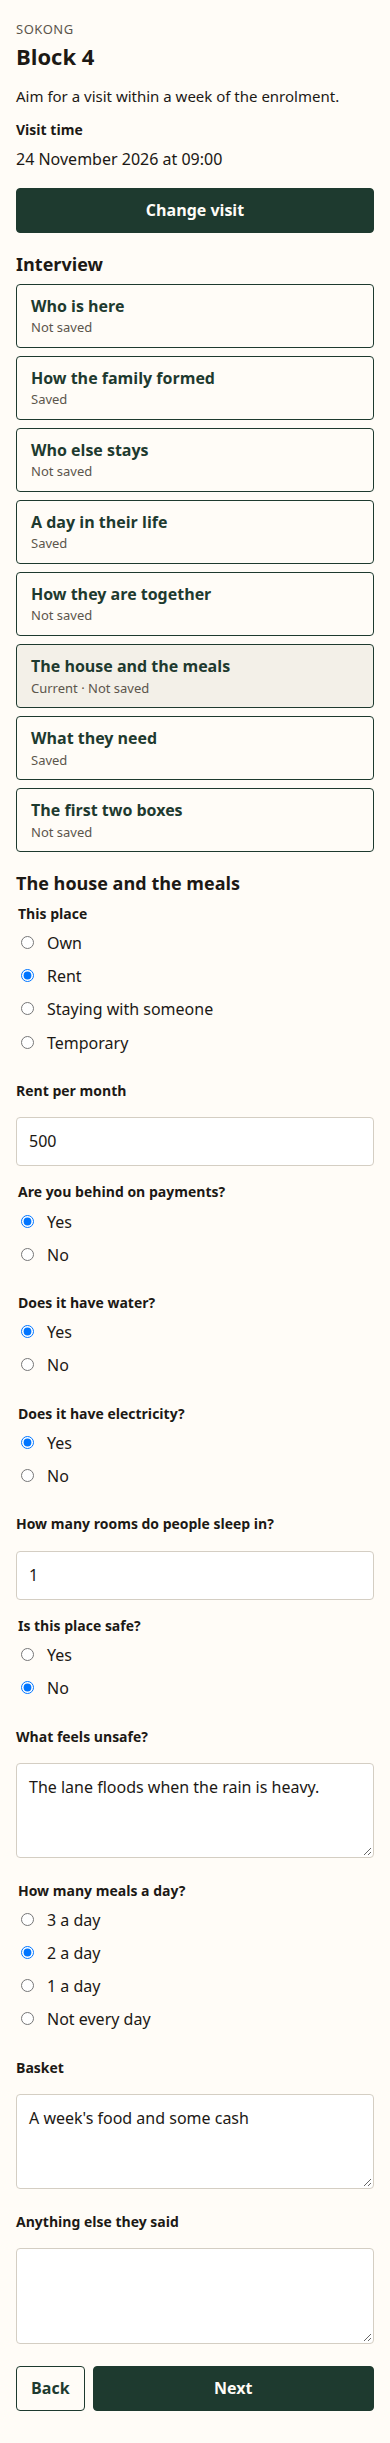
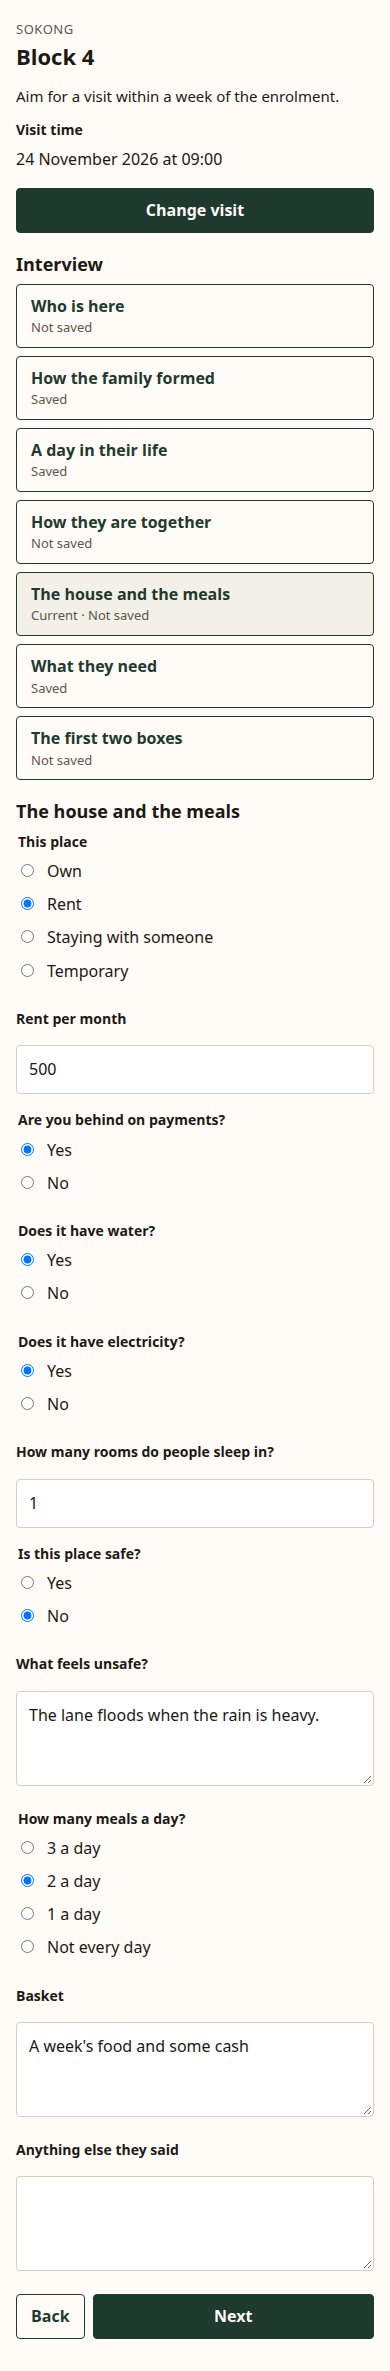
Combine the people stages into Who is here.
The interview is seven stages. Guests and care for elderly parents sit on the people screen, and each stage has a fresh picture.

diff --git a/context/requirements/features/verification-visit/design/preview.html b/context/requirements/features/verification-visit/design/preview.html
@@ -214,7 +214,6 @@
     const stages = [
       ["who", "Who is here"],
       ["formation", "How the family formed"],
-      ["else", "Who else stays"],
       ["day", "A day in their life"],
       ["together", "How they are together"],
       ["house", "The house and the meals"],
@@ -228,7 +227,6 @@
     const saved = {
       who: false,
       formation: true,
-      else: false,
       day: true,
       together: false,
       house: false,
@@ -339,6 +337,10 @@
           ${away}
         </div>
         <button class="secondary block" type="button">Add a person</button>
+        ${yesNo("Does anyone else stay who is not in that list?", "yes")}
+        ${area("Who, and why?", "A cousin sleeps here a few nights a month when he is between jobs.")}
+        ${yesNo("Do you have to take care of elderly parents?", "yes")}
+        ${area("Who, and what do you do for them?", "Aminah's mother lives nearby. Aminah cooks for her and helps her wash.")}
         ${anything("")}
         ${nav("first")}`;
     }
@@ -393,20 +395,6 @@
         <h2>How the family formed</h2>
         ${field("When did this family start?", "2008")}
         ${area("How did it start?", "Aminah and Rahman married after meeting at the market.")}
-        ${anything("")}
-        ${nav()}`,
-
-      "who-else": () => `
-        ${caseTop()}
-        ${visitHeader("week")}
-        ${stageList("else")}
-        <h2>Who else stays</h2>
-        <p>People who live here are recorded in Who is here.</p>
-        <p>Children are recorded in Who is here.</p>
-        ${yesNo("Does anyone else stay who is not in that list?", "yes")}
-        ${area("Who, and why?", "A cousin sleeps here a few nights a month when he is between jobs.")}
-        ${yesNo("Do you have to take care of elderly parents?", "yes")}
-        ${area("Who, and what do you do for them?", "Aminah's mother lives nearby. Aminah cooks for her and helps her wash.")}
         ${anything("")}
         ${nav()}`,
 

diff --git a/context/requirements/features/verification-visit/spec.md b/context/requirements/features/verification-visit/spec.md
@@ -14,9 +14,9 @@ The other user is the person who enrolled, including someone who enrolled many f
 
 Sokong can store an enrolment today, and `visit_at` is always empty. No one can set a visit or mark a family.
 
-The interview is eight stages. The stage list stays on screen. The worker can open any stage, go back, and go forward. Each stage saves when they leave it. Empty answers are allowed. A follow-up stays off the screen until the answer that opens it. The enrolment is shown above a field it already answered, and the worker writes what the family said. That answer is the verified account. The enrolment rows stay as submitted.
+The interview is seven stages. The stage list stays on screen. The worker can open any stage, go back, and go forward. Each stage saves when they leave it. Empty answers are allowed. A follow-up stays off the screen until the answer that opens it. The enrolment is shown above a field it already answered, and the worker writes what the family said. That answer is the verified account. The enrolment rows stay as submitted.
 
-The eight stages are Who is here, How the family formed, Who else stays, A day in their life, How they are together, The house and the meals, What they need, and The first two boxes. The basket is on the house stage. Consent is on the needs stage. The identity check is on the first stage, once for each person. The story is the other answers. All of that is stored before either mark. A visit later than a week after the enrolment is allowed. The screen says that a week is the aim. A disqualified family stays on record.
+The seven stages are Who is here, How the family formed, A day in their life, How they are together, The house and the meals, What they need, and The first two boxes. Who is here includes the people who stay. The basket is on the house stage. Consent is on the needs stage. The identity check is on the first stage, once for each person. The story is the other answers. All of that is stored before either mark. A visit later than a week after the enrolment is allowed. The screen says that a week is the aim. A disqualified family stays on record.
 
 On 2026-11-17 Usamah confirmed the closing judgment: this visit records Good family unit and Basic necessities, each with its gap. The other two boxes wait. The worker chooses the mark. Qualified still requires the family's consent at the visit. A refused consent can be marked disqualified once the interview is saved. Missing papers do not block either mark. A family can be on record with no papers.
 
@@ -75,7 +75,7 @@ backend/app/models/enrolment.rb        visit_at, outcome, marked_at, marker_name
 backend/app/controllers/               visit, verification stage, and qualification
 backend/app/mailers/enrolment_mailer.rb
 backend/test/integration/verifications_test.rb
-web/components/WorkerCase.vue          the visit time and the eight-stage interview
+web/components/WorkerCase.vue          the visit time and the seven-stage interview
 web/pages/enrolments/index.vue         visit and outcome on each row
 web/pages/enrolments/[id].vue          submitter progress
 web/i18n/locales/en.json               the copy in Success Criteria
@@ -108,7 +108,7 @@ end
 
 ## Testing Strategy
 
-`bin/ci` is the gate. Rails integration tests prove the HTTP contract, the visit time, saving one stage, the mark, who may see the interview, and the mail. Vitest proves the worker case: the eight stage names stay visible, the open stage is marked current, a saved stage shows "Saved", jumping and Back and Next keep what was typed, a bad phone stays on that stage, a No or an unselected choice hides its follow-up, the interview is hidden until a visit time is set, and the case is read-only after a mark. Vitest also proves the quiet sentence only when nobody has looked and no visit is set, and a list of two enrolments showing each visit and each outcome. A browser pass at 390 CSS pixels wide checks the worker case, submitter progress, and the enrolments list. Those pages scroll vertically and do not scroll horizontally.
+`bin/ci` is the gate. Rails integration tests prove the HTTP contract, the visit time, saving one stage, the mark, who may see the interview, and the mail. Vitest proves the worker case: the seven stage names stay visible, the open stage is marked current, a saved stage shows "Saved", jumping and Back and Next keep what was typed, a bad phone stays on that stage, a No or an unselected choice hides its follow-up, the interview is hidden until a visit time is set, and the case is read-only after a mark. Vitest also proves the quiet sentence only when nobody has looked and no visit is set, and a list of two enrolments showing each visit and each outcome. A browser pass at 390 CSS pixels wide checks the worker case, submitter progress, and the enrolments list. Those pages scroll vertically and do not scroll horizontally.
 
 Edge cases the integration tests cover:
 
@@ -189,17 +189,15 @@ Never:
 
 ### The interview
 
-6. After a visit time is stored, the worker case shows a stage list that stays visible while a stage is open. The heading is "Interview". The stages, in order, are "Who is here", "How the family formed", "Who else stays", "A day in their life", "How they are together", "The house and the meals", "What they need", and "The first two boxes". The open stage shows "Current". A stage that has been saved shows "Saved". A stage that has not shows "Not saved". The worker opens any stage from that list. "Back" and "Next" move one stage. Stage 1 has no Back. Stage 8 has no Next.
+6. After a visit time is stored, the worker case shows a stage list that stays visible while a stage is open. The heading is "Interview". The stages, in order, are "Who is here", "How the family formed", "A day in their life", "How they are together", "The house and the meals", "What they need", and "The first two boxes". The open stage shows "Current". A stage that has been saved shows "Saved". A stage that has not shows "Not saved". The worker opens any stage from that list. "Back" and "Next" move one stage. Stage 1 has no Back. Stage 7 has no Next.
 7. Leaving a stage, by Back, Next, or the stage list, saves it when the answers are valid. Blank answers are valid. A follow-up that the answer does not open is not on the screen, and it is stored empty. An invalid answer stays on that stage, shows the error, and does not open the other stage. Typed answers are still there.
-8. `PUT /enrolments/:id/verification/:stage` saves that stage. `:stage` is `who_is_here`, `formation`, `who_else_stays`, `daily_life`, `dynamics`, `house`, `needs`, or `boxes`. Any other stage is 404. The call is rejected with "Set the visit before recording it" until `visit_at` is stored. A 200 body is the saved stage plus `worker_name` and `recorded_at`. `worker_name` is the worker account's name at save time. `recorded_at` is the server time, ISO 8601 UTC. A later PUT of the same stage replaces it and leaves the other stages unchanged.
+8. `PUT /enrolments/:id/verification/:stage` saves that stage. `:stage` is `who_is_here`, `formation`, `daily_life`, `dynamics`, `house`, `needs`, or `boxes`. Any other stage is 404. The call is rejected with "Set the visit before recording it" until `visit_at` is stored. A 200 body is the saved stage plus `worker_name` and `recorded_at`. `worker_name` is the worker account's name at save time. `recorded_at` is the server time, ISO 8601 UTC. A later PUT of the same stage replaces it and leaves the other stages unchanged.
 9. Where the enrolment already holds a fact, the stage shows that fact above the field, labeled "Enrolment". The worker's answer is stored on the interview. The enrolment member, place, phone, and consent sentence stay as submitted. On the worker case, a stored interview answer is the account that outranks the enrolment, and the enrolment fact remains visible under it.
 10. Each stage ends with "Anything else they said", optional text up to 2000 characters. The questions below are the field labels.
 
-Who is here. The people already on the enrolment are listed, head first, then the other members. The worker opens one person at a time. For each person: "Full name", "Birth date", "Gender", "Phone", "Identification", "Identity", and "Absent". The head shows "Head" and has no relationship choice. Every other person has "Relationship", one of "Spouse", "Child", "Parent", and "Other". "From where?" is on each person whose relationship is not Child, including the head. "Absent" opens "Since when" and "Why". "Add a person" adds someone the visit found, and that person needs a name before the stage can leave them on the list. An added person has "Remove". An enrolment person stays on the list and can be marked absent. "Identity" is one of "Verified", "Not verified", and "No papers", asked for each person. The screen says "The children are the people recorded here." A child is a person whose relationship is Child.
+Who is here. The people already on the enrolment are listed, head first, then the other members. The worker opens one person at a time. For each person: "Full name", "Birth date", "Gender", "Phone", "Identification", "Identity", and "Absent". The head shows "Head" and has no relationship choice. Every other person has "Relationship", one of "Spouse", "Child", "Parent", and "Other". "From where?" is on each person whose relationship is not Child, including the head. "Absent" opens "Since when" and "Why". "Add a person" adds someone the visit found, and that person needs a name before the stage can leave them on the list. An added person has "Remove". An enrolment person stays on the list and can be marked absent. "Identity" is one of "Verified", "Not verified", and "No papers", asked for each person. The screen says "The children are the people recorded here." A child is a person whose relationship is Child. After the people, the stage asks "Does anyone else stay who is not in that list?" and "Do you have to take care of elderly parents?" Yes on the first opens "Who, and why?" Yes on the second opens "Who, and what do you do for them?"
 
 How the family formed. "When did this family start?" and "How did it start?"
-
-Who else stays. "Does anyone else stay who is not in that list?" and "Do you have to take care of elderly parents?" Yes on the first opens "Who, and why?" Yes on the second opens "Who, and what do you do for them?" The screen says "People who live here are recorded in Who is here." and "Children are recorded in Who is here."
 
 A day in their life. The same people as Who is here, one person at a time, head first. "Are you working?" and "Are you in school?" are always shown. Working and school are independent. Both may be true. Both may be false. Yes on working opens "What job?", "Ringgit per month", "Any previous jobs?", and "If you wish for a new job or income, what would that be?" "Any skills to highlight?" stays visible either way. Yes on school opens "How is school going?", "Where is school?", and "How do you get there?" The enrolment working answer, education answer, job, and rough monthly amount sit above the matching fields.
 
@@ -235,7 +233,7 @@ The first two boxes. "Good family unit" and "Basic necessities", each checked or
 
 ### Who sees it
 
-20. Worker detail adds `visit_at`, `verification` (null until the first stage is saved, then the eight stages), `outcome` (null until the mark), `marked_at`, and `marker_name`. Worker list items add `visit_at` and `outcome` only. They do not add the interview.
+20. Worker detail adds `visit_at`, `verification` (null until the first stage is saved, then the seven stages), `outcome` (null until the mark), `marked_at`, and `marker_name`. Worker list items add `visit_at` and `outcome` only. They do not add the interview.
 21. Submitter JSON keeps `progress.visit_at` and adds `progress.outcome`. Both are null on `POST /enrolments` and until the worker sets them. The submitter body does not include `verification`, the basket, consent, the identity check, the interview, the two boxes, `marked_at`, or `marker_name`.
 22. The submitter progress page keeps "This case is in. No one has looked. No visit is set." for no looks and no visit. A stored visit uses the headline "This case is in." and the line "A visit is set for {local time}." in the same local format as the worker case. "No visit is set." remains the line when looks exist and no visit is stored. Qualified adds "This family is qualified." Disqualified adds "This family is disqualified."
 23. Each row on the enrolments list shows the place, the head's name, the visit line ("A visit is set for {local time}." or "No visit is set."), and the outcome line when an outcome is stored. A row with no outcome has no outcome line. This holds for the submitter, who may have many enrolments, and for the worker.

diff --git a/context/requirements/features/verification-visit/design.md b/context/requirements/features/verification-visit/design.md
@@ -49,21 +49,21 @@ Pictures: [set-visit.png](design/set-visit.png), [visit-invalid.png](design/visi
 
 ### Visit time, then the interview
 
-Job: show the stored time, say whether it is later than a week, and keep the eight stages on screen.
+Job: show the stored time, say whether it is later than a week, and keep the seven stages on screen.
 
 Primary action: Change visit, until the family is marked. After that, the time is text.
 
 The sample time `2026-11-24T01:00:00Z` is shown to a UTC+8 viewer as "24 November 2026 at 09:00". A later sample, "25 November 2026 at 09:00", also shows "This visit is later than a week after the enrolment."
 
-The heading is "Interview". The stages, in order, are "Who is here", "How the family formed", "Who else stays", "A day in their life", "How they are together", "The house and the meals", "What they need", and "The first two boxes". The open stage shows "Current". A saved stage shows "Saved". The others show "Not saved".
+The heading is "Interview". The stages, in order, are "Who is here", "How the family formed", "A day in their life", "How they are together", "The house and the meals", "What they need", and "The first two boxes". The open stage shows "Current". A saved stage shows "Saved". The others show "Not saved".
 
 Pictures of the late time and the on-time interview: [visit-late.png](design/visit-late.png), [who-is-here.png](design/who-is-here.png).
 
 ### Who is here
 
-Job: confirm each person, add someone the visit found, and record each person's identity.
+Job: record everyone who lives here, guests who are not on that list, care for elderly parents, and each person's identity.
 
-Primary action: Next. There is no Back. "Add a person" inserts a person who needs a name. An added person has "Remove". Farid is that person in the picture. The head shows "Head" and has no relationship choice. Every other person has "Relationship". "From where?" is hidden when the relationship is Child. "Absent" opens "Since when" and "Why". "Since when" is a date, `YYYY-MM-DD`.
+Primary action: Next. There is no Back. "Add a person" inserts a person who needs a name. An added person has "Remove". Farid is that person in the picture. The head shows "Head" and has no relationship choice. Every other person has "Relationship". "From where?" is hidden when the relationship is Child. "Absent" opens "Since when" and "Why". "Since when" is a date, `YYYY-MM-DD`. After the people, Yes on a guest opens "Who, and why?" Yes on care for elderly parents opens "Who, and what do you do for them?"
 
 The open person shows "Enrolment" above the name, the gender, and the phone. A bad phone stays on this stage. Identity is asked on that person.
 
@@ -89,6 +89,12 @@ Copy:
 - "Absent"
 - "Since when"
 - "Why"
+- "Does anyone else stay who is not in that list?"
+- "Who, and why?"
+- "Do you have to take care of elderly parents?"
+- "Who, and what do you do for them?"
+- "Yes"
+- "No"
 - "Enter a phone number, for example +60 12-345 6789."
 - "Anything else they said"
 
@@ -111,27 +117,6 @@ Copy:
 - "Enter the year, for example 2008."
 
 Picture: [formation.png](design/formation.png).
-
-### Who else stays
-
-Job: note guests who are not people on the list, and care for elderly parents.
-
-Primary action: Next.
-
-People who live here are added on Who is here. Yes opens the follow-up. No leaves it off the screen.
-
-Copy:
-
-- "People who live here are recorded in Who is here."
-- "Children are recorded in Who is here."
-- "Does anyone else stay who is not in that list?"
-- "Who, and why?"
-- "Do you have to take care of elderly parents?"
-- "Who, and what do you do for them?"
-- "Yes"
-- "No"
-
-Picture: [who-else.png](design/who-else.png).
 
 ### A day in their life
 

diff --git a/context/requirements/features/verification-visit/README.md b/context/requirements/features/verification-visit/README.md
@@ -2,7 +2,7 @@
 
 Status: spec-draft
 
-Interview for the ideal first verification visit and its mark: F06 and F07. Usamah named this feature on 2026-11-16 and, the same day, set duplicate enrolments aside as F38. Usamah confirmed the statement in [intent.md](intent.md) on 2026-11-17 and set this status to `intent-confirmed` the same day. The spec in [spec.md](spec.md) is a draft written 2026-11-17. On 2026-11-17 Usamah confirmed the interview: eight stages, the stage list always visible, and the worker can jump between stages. The last stage records Good family unit and Basic necessities, each with its gap. The other two boxes stay F08. On 2026-11-17 Usamah accepted a revision of the questions: shorter controls, and a follow-up only after the answer that opens it. The stages stay the same eight. The review pictures are in [design.md](design.md). Status stays `spec-draft` until the screenshots are accepted and the spec is approved. No plan and no code.
+Interview for the ideal first verification visit and its mark: F06 and F07. Usamah named this feature on 2026-11-16 and, the same day, set duplicate enrolments aside as F38. Usamah confirmed the statement in [intent.md](intent.md) on 2026-11-17 and set this status to `intent-confirmed` the same day. The spec in [spec.md](spec.md) is a draft written 2026-11-17. On 2026-11-17 Usamah confirmed the interview: the stage list always visible, and the worker can jump between stages. The last stage records Good family unit and Basic necessities, each with its gap. The other two boxes stay F08. On 2026-11-17 Usamah accepted a revision of the questions: shorter controls, and a follow-up only after the answer that opens it. The same day he combined Who is here and Who else stays, so the interview is seven stages. The review pictures are in [design.md](design.md). Status stays `spec-draft` until the screenshots are accepted and the spec is approved. No plan and no code.
 
 ## Links
 

diff --git a/context/product/master-feature-list.md b/context/product/master-feature-list.md
@@ -8,7 +8,7 @@ The proposed first cluster, not an approval, is the record a phone enrolment nee
 
 F24 is deferred. The share counts every family in the locality, and Sokong only tracks families that need support, so the other features do not wait on it. F36 is the ownership question Q2 set aside. F37 is contesting a checkbox, which Q5 set aside. The first locale is English, and both clients are localizable (Q15, ADR-0006).
 
-On 2026-11-16 Usamah kept the verification interview on the ideal first visit. That interview is F06 and F07, in `requirements/features/verification-visit/`. He set it to `intent-confirmed` on 2026-11-17. The spec draft records an eight-stage interview and the first two Mara boxes with their gaps. It is not approved. Dependable generation and accumulated wealth stay F08. Duplicate enrolments and their reconciliation are F38, and F38 waits for its own interview.
+On 2026-11-16 Usamah kept the verification interview on the ideal first visit. That interview is F06 and F07, in `requirements/features/verification-visit/`. He set it to `intent-confirmed` on 2026-11-17. The spec draft records a seven-stage interview and the first two Mara boxes with their gaps. It is not approved. Dependable generation and accumulated wealth stay F08. Duplicate enrolments and their reconciliation are F38, and F38 waits for its own interview.
 
 ## A. Place and people
 
